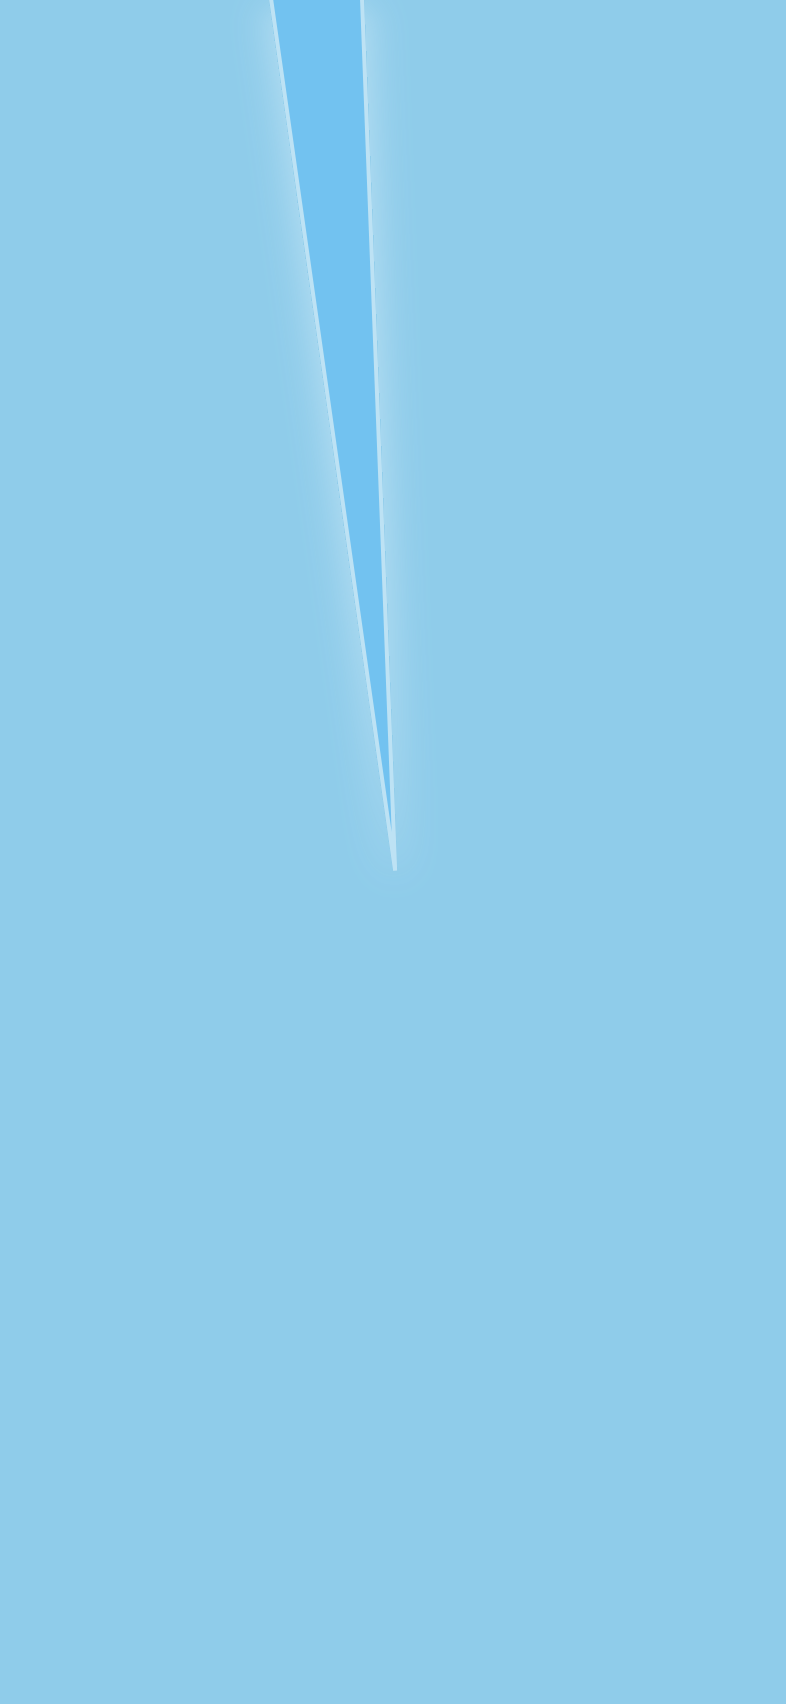
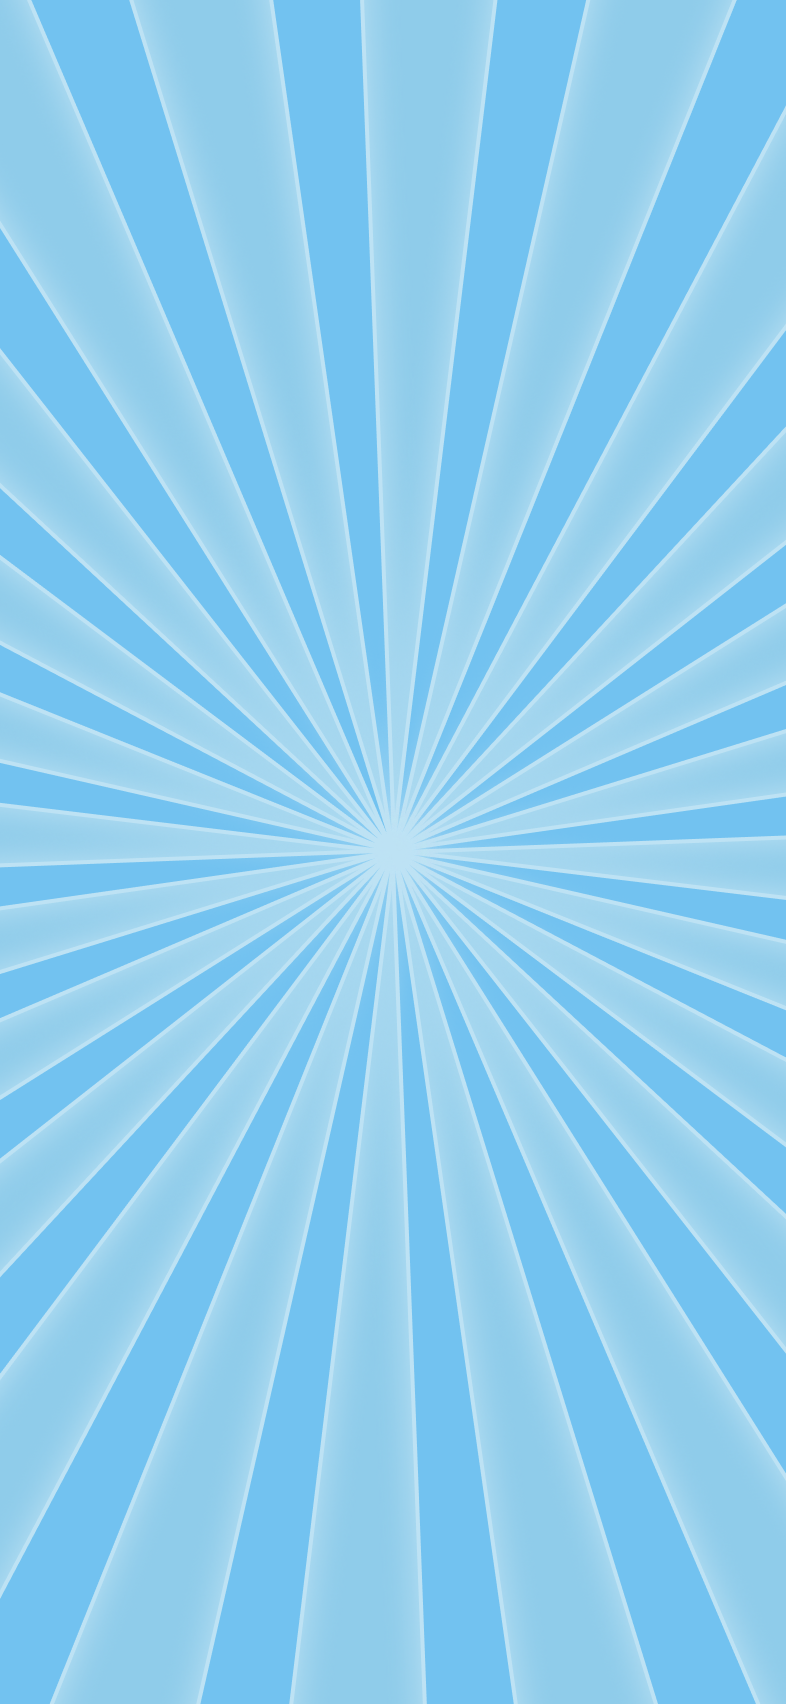
fix: update background image in index.css from SVG to PNG for improved compatibility

diff --git a/src/index.css b/src/index.css
@@ -75,7 +75,7 @@
 @layer utilities {
   .bg-page {
     background-color: #8FCCEA;
-    background-image: url('/design/bg/bg.svg');
+    background-image: url('/design/bg/bg.png');
     background-size: cover;
     background-position: center;
     background-repeat: no-repeat;
